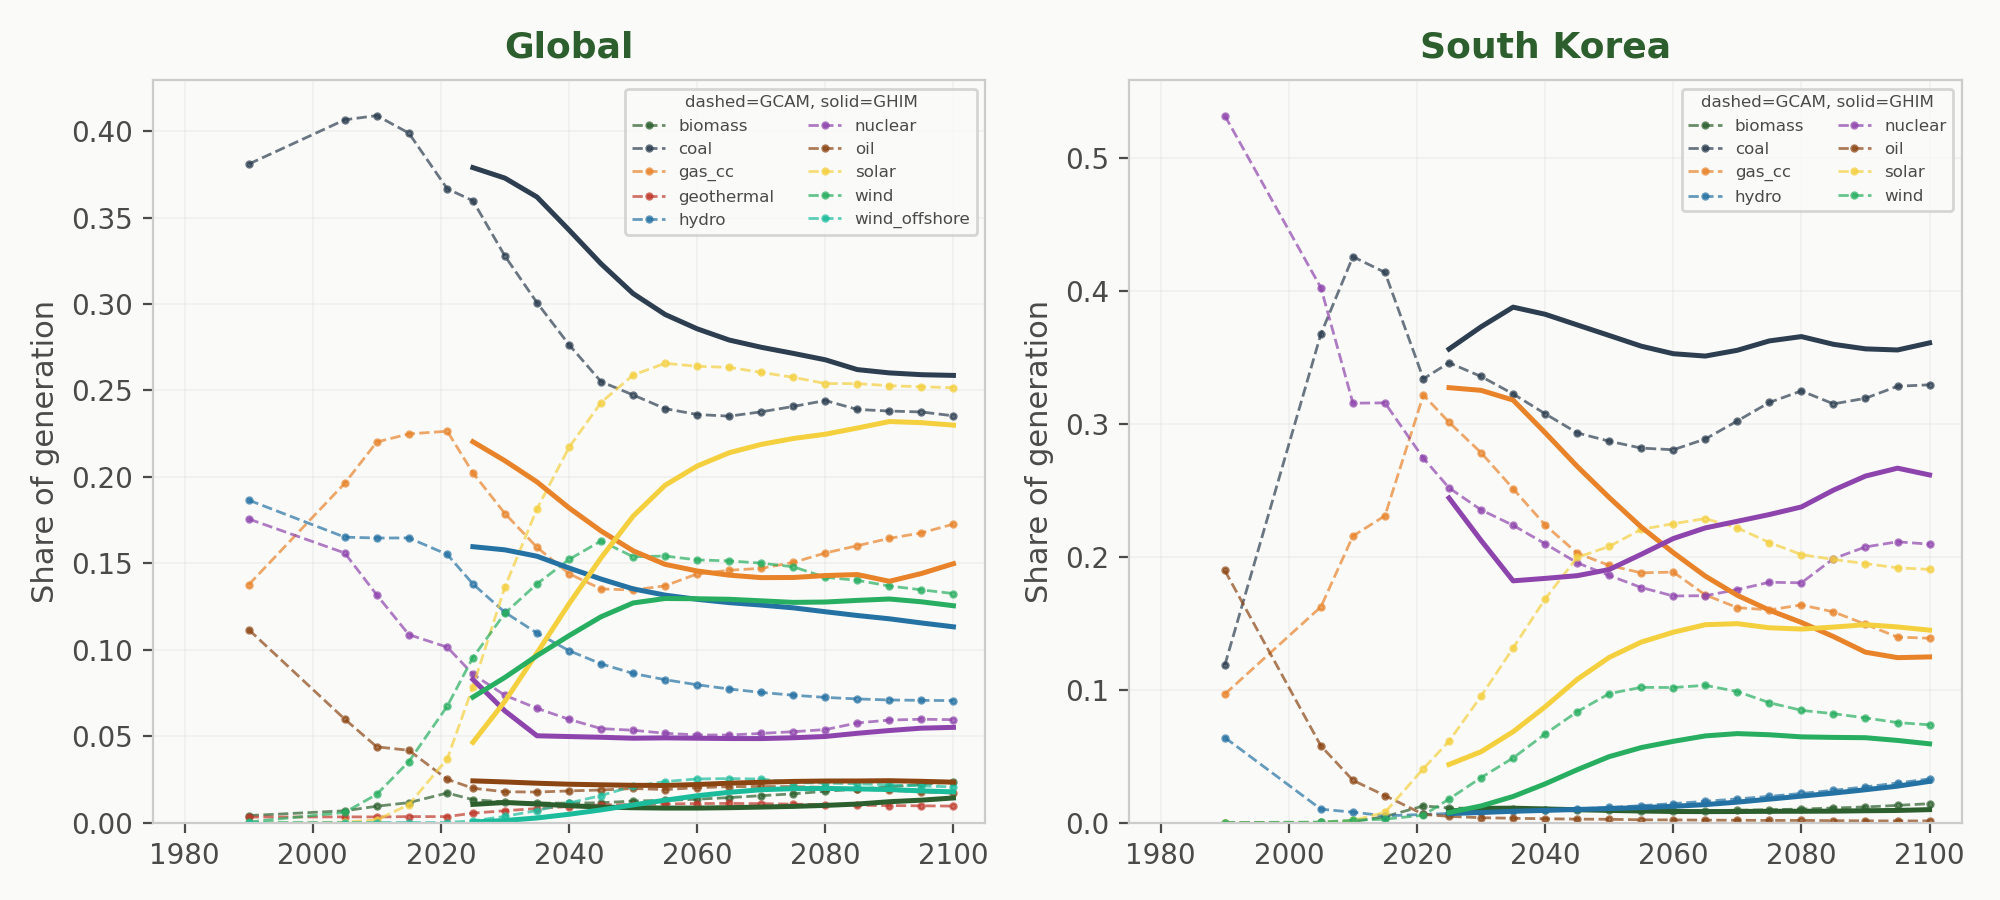
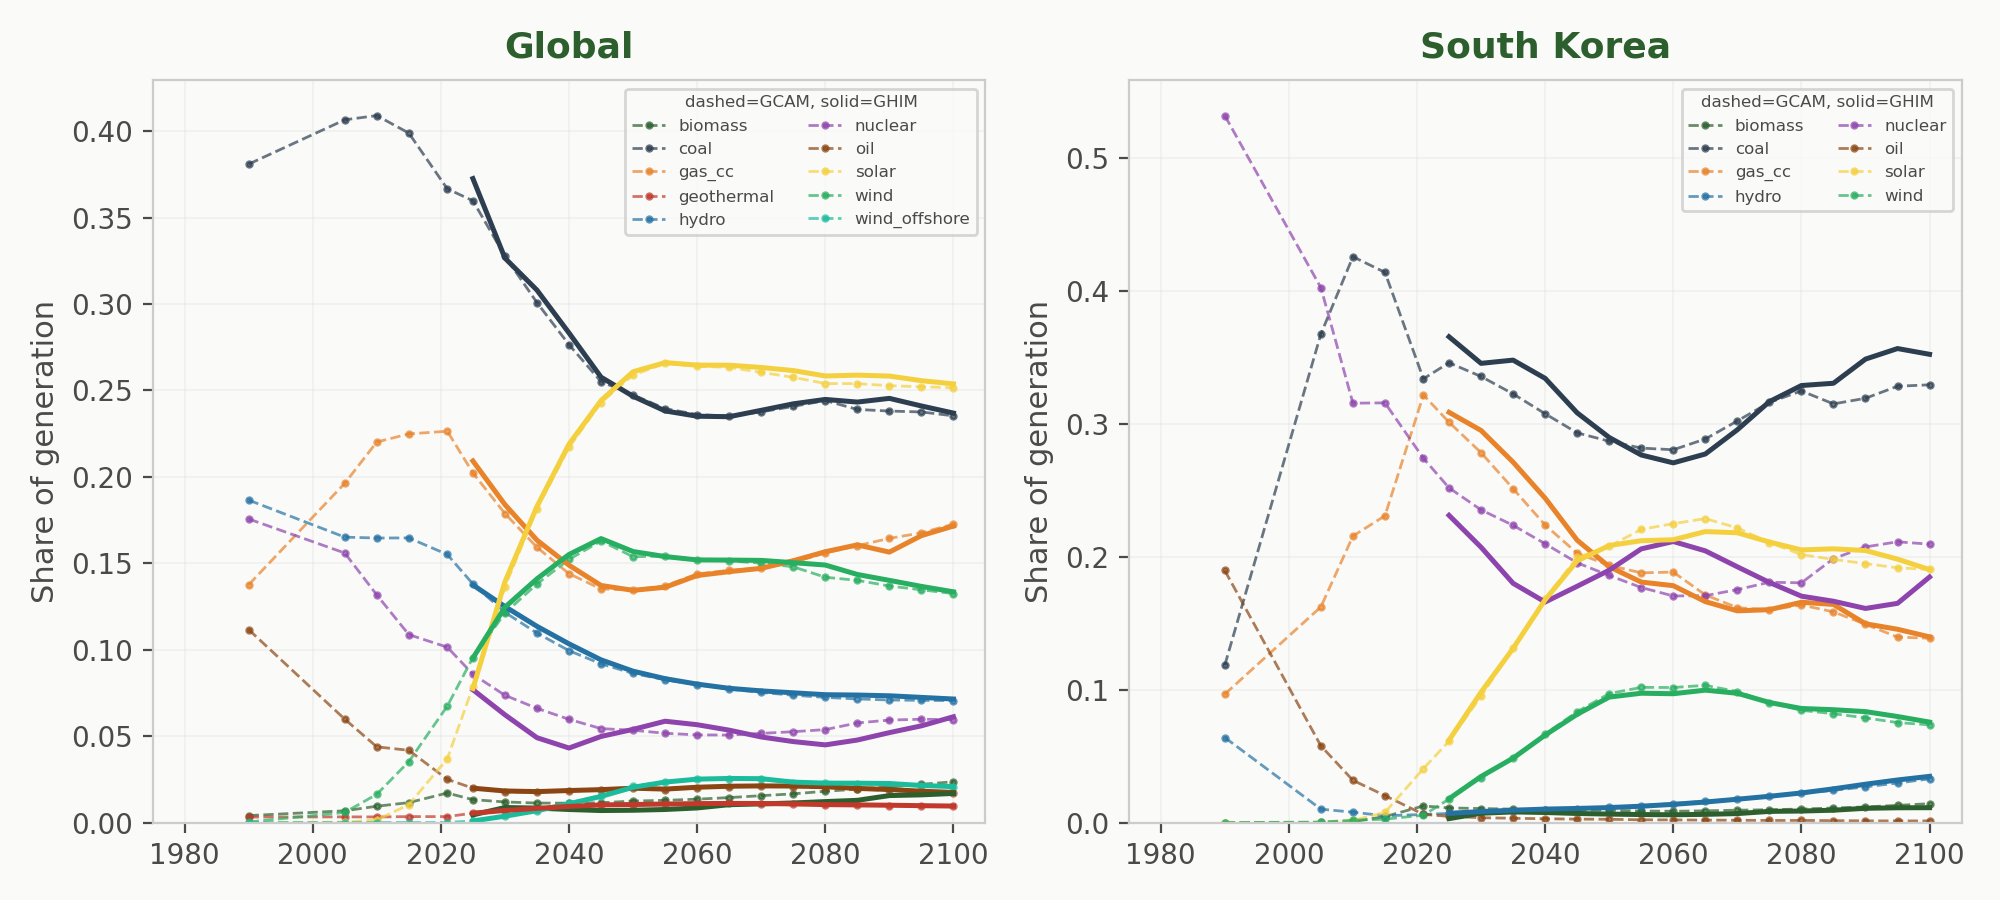
Fix vintage investment back-calculation + slide updates
Back-calculate new investment from effective target shares:
new = (target × demand - surviving) / gap
All elec techs ±1pp (was ±8pp). Slides updated with CC/MAE.

diff --git a/present/slim-19-mar-2026/slides.tex b/present/slim-19-mar-2026/slides.tex
@@ -1631,7 +1631,7 @@ Forward solve & 42s \\
 % ── Val 4: Electricity Generation (2-panel) ──────────────────────
 \begin{frame}[t]{Calibration --- Electricity Generation}
 \vspace{-0.3em}
-{\small \textbf{Elec gen: 0.0\% deviation all periods.} H$_2$ production: 0.0\%. District heat: 0.0\%.}
+{\small \textbf{Elec gen: CC\,=\,1.0000, 0.0\% deviation all periods.} H$_2$: 0.0\%. District heat: 0.0\%.}
 \vspace{0.2em}
 
 \centering
@@ -1641,7 +1641,7 @@ Forward solve & 42s \\
 % ── Val 5: Electricity Mix (2-panel) ────────────────────────────
 \begin{frame}[t]{Calibration --- Electricity Generation Mix}
 \vspace{-0.3em}
-{\small Generation technology shares --- dashed\,=\,GCAM, solid\,=\,GHIM.}
+{\small Generation technology shares --- dashed\,=\,GCAM, solid\,=\,GHIM. All techs $\pm$1\,pp.}
 \vspace{0.2em}
 
 \centering
